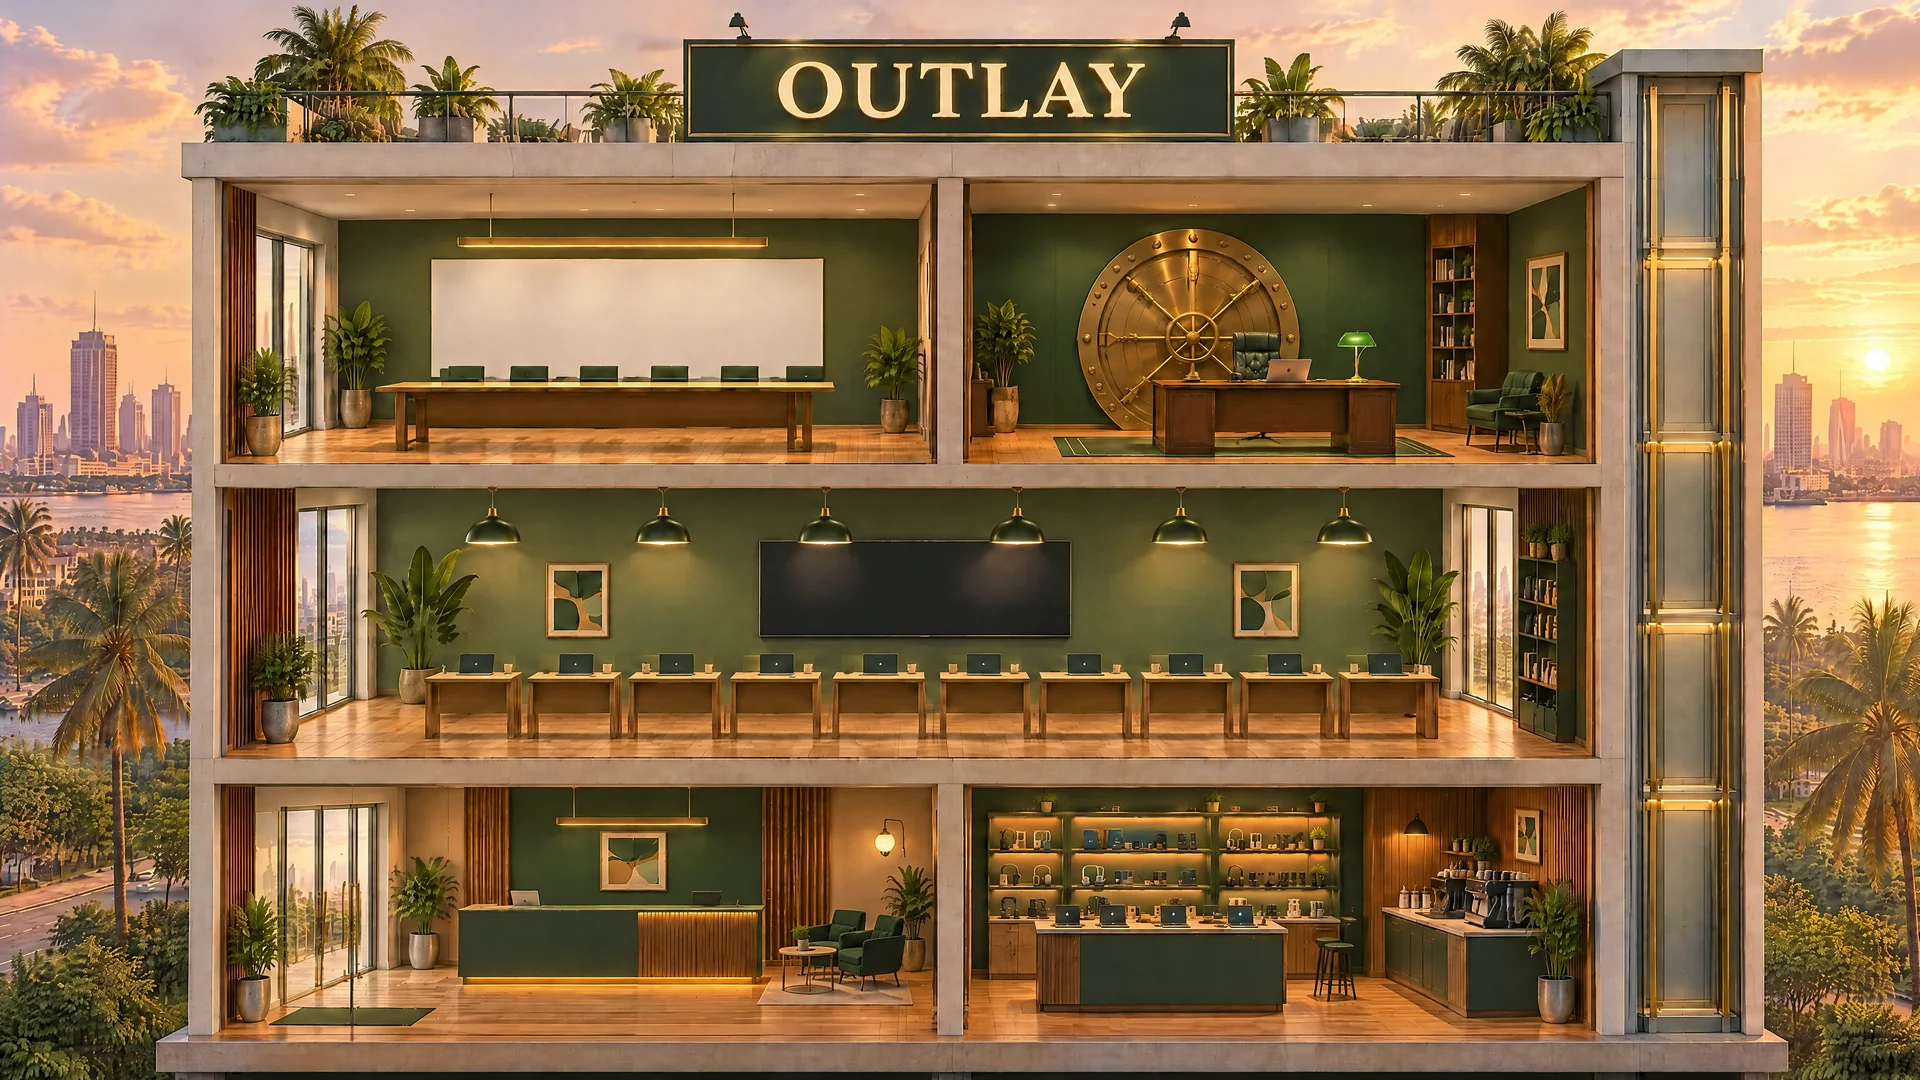
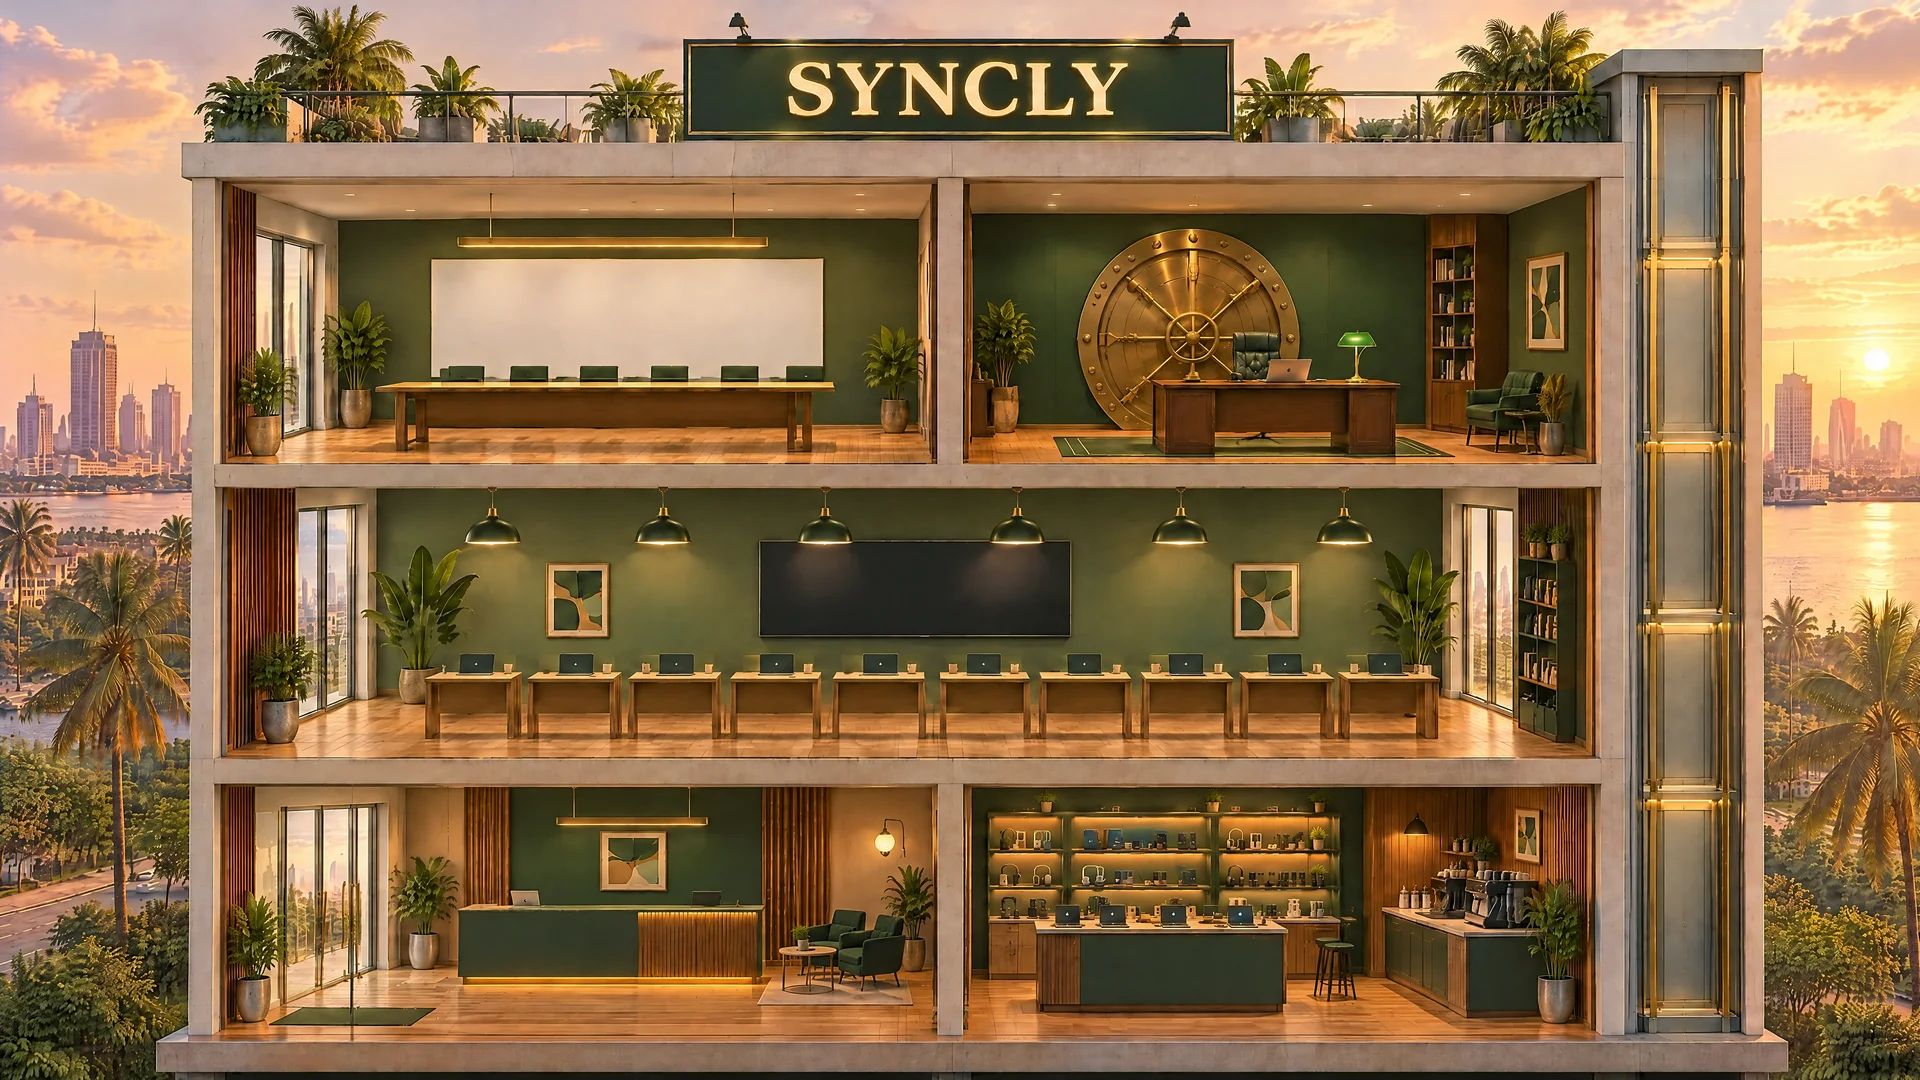
Rename the company to Syncly
- every user-facing 'Outlay' is now 'Syncly': site copy, titles, the wordmark, the
  seal (S), favicon, receipts, the office wall screen, SYNCLY HQ, README, TRACTION.md
- contracts renamed before deployment: SynclyVault (16/16 tests pass)
- the rooftop sign in the building art repainted to SYNCLY (Higgsfield edit of the sign
  crop only, blended back so every coordinate in the scene is unchanged)
- internal names (OUTLAY_* env vars, storage keys, the seed file) are unchanged

Changed region(s): [[0.3438, 0.0306, 0.6562, 0.1528]]

diff --git a/web/src/views/Job.tsx b/web/src/views/Job.tsx
@@ -42,7 +42,7 @@ function PaperReceipt({ o, receipt }: { o: Order; receipt: Receipt[] }) {
   const price = q.promo ? 0 : q.priceUsd;
   return (
     <div className="receipt">
-      <div className="rh"><b>OUTLAY</b><span>{o.id} · {new Date(o.createdAt).toLocaleDateString()}</span></div>
+      <div className="rh"><b>SYNCLY</b><span>{o.id} · {new Date(o.createdAt).toLocaleDateString()}</span></div>
       <div style={{ fontSize: 11.5, color: 'var(--muted)', textAlign: 'center' }}>Every tool the team bought for this job</div>
       <hr />
       <div className="scroll">
@@ -59,7 +59,7 @@ function PaperReceipt({ o, receipt }: { o: Order; receipt: Receipt[] }) {
       <div className="tot"><span>Tools ({receipt.length})</span><span>{spent.toFixed(4)}</span></div>
       <div className="tot"><span>You pay{q.promo ? ' (free)' : ''}</span><span>{price.toFixed(2)}</span></div>
       <hr />
-      <div className="tot big"><span>Outlay's margin</span><span>{(price - spent).toFixed(4)}</span></div>
+      <div className="tot big"><span>Syncly's margin</span><span>{(price - spent).toFixed(4)}</span></div>
       <div className="foot">USDC · {o.demo ? 'demo receipt, no money moved' : 'paid per call via x402 on Arc'}</div>
     </div>
   );
@@ -103,7 +103,7 @@ export default function Job({ id }: { id: string }) {
     } catch (e: any) { setErr(e.message); } finally { setBusy(false); }
   }
 
-  if (err && !o) return <main className="wrap section center"><h1 className="h1">Couldn't find this job.</h1><p className="muted" style={{ margin: '12px 0 24px' }}>{err}</p><Link href="/" className="btn secondary">Back to Outlay</Link></main>;
+  if (err && !o) return <main className="wrap section center"><h1 className="h1">Couldn't find this job.</h1><p className="muted" style={{ margin: '12px 0 24px' }}>{err}</p><Link href="/" className="btn secondary">Back to Syncly</Link></main>;
   if (!o) return <main className="wrap section"><div className="skel" style={{ height: 480 }} /></main>;
   const q = o.quote;
 

diff --git a/server/src/api.ts b/server/src/api.ts
@@ -1,4 +1,4 @@
-// Outlay API: quotes, orders, live job progress (SSE), the public books.
+// Syncly API: quotes, orders, live job progress (SSE), the public books.
 //   PORT=8790 node src/api.ts          (OUTLAY_DRY=1 for demo mode: no money moves, clearly labelled)
 import { Hono } from 'hono';
 import { streamSSE } from 'hono/streaming';
@@ -6,7 +6,7 @@ import { serve } from '@hono/node-server';
 import { existsSync, readFileSync } from 'node:fs';
 import { join } from 'node:path';
 import { DATA_DIR, DRY } from './config.ts';
-import { bus, type OutlayEvent } from './bus.ts';
+import { bus, type SynclyEvent } from './bus.ts';
 import { CATALOG } from './services/index.ts';
 import { autoAcceptDue, createQuote, decide, getOrder, readJob, replay, retry, start } from './orders.ts';
 import { books, beancount, team } from './books.ts';
@@ -104,7 +104,7 @@ app.get('/api/books.beancount', (c) => {
 
 // Live progress of the job currently running for each order (steps + purchases), for the job page.
 const liveJobs = new Map<string, { jobId: string; steps: unknown[]; receipt: unknown[] }>();
-bus.on('event', (e: OutlayEvent) => {
+bus.on('event', (e: SynclyEvent) => {
   if (!e.orderId || !e.jobId) return;
   let l = liveJobs.get(e.orderId);
   if (!l || l.jobId !== e.jobId) liveJobs.set(e.orderId, (l = { jobId: e.jobId, steps: [], receipt: [] }));
@@ -115,7 +115,7 @@ bus.on('event', (e: OutlayEvent) => {
 app.get('/api/events', (c) =>
   streamSSE(c, async (stream) => {
     const only = c.req.query('order');
-    const send = (e: OutlayEvent) => { if (!only || e.orderId === only) void stream.writeSSE({ data: JSON.stringify(e), event: e.type }); };
+    const send = (e: SynclyEvent) => { if (!only || e.orderId === only) void stream.writeSSE({ data: JSON.stringify(e), event: e.type }); };
     bus.on('event', send);
     const ping = setInterval(() => void stream.writeSSE({ data: '{}', event: 'ping' }), 20_000);
     await new Promise<void>((resolve) => stream.onAbort(() => resolve()));

diff --git a/server/scripts/deploy.ts b/server/scripts/deploy.ts
@@ -1,4 +1,4 @@
-// Deploy OutlayVault + JobEscrow and configure them.
+// Deploy SynclyVault + JobEscrow and configure them.
 //   node scripts/deploy.ts local          → anvil on :8545 (tests the whole sequence)
 //   node scripts/deploy.ts arc [0xBoss]   → Arc mainnet; ownership handed to the Boss's own wallet
 // Deployer = treasury key. CFO + escrow operator = the cfo role. Every agent role is hired.
@@ -18,7 +18,7 @@ const forge = join(process.env.HOME!, '.foundry/bin/forge');
 
 execFileSync(forge, ['build', '--silent'], { cwd: contractsDir, stdio: 'inherit' });
 const art = (name: string) => JSON.parse(readFileSync(join(contractsDir, 'out', `${name}.sol`, `${name}.json`), 'utf8'));
-const Vault = art('OutlayVault');
+const Vault = art('SynclyVault');
 const Escrow = art('JobEscrow');
 
 const local: Chain = { id: 31337, name: 'anvil', nativeCurrency: { name: 'ETH', symbol: 'ETH', decimals: 18 }, rpcUrls: { default: { http: ['http://127.0.0.1:8545'] } } };
@@ -58,7 +58,7 @@ async function call(label: string, address: Address, abi: any, functionName: str
 }
 
 console.log(`deploying to ${network} (chain ${chain.id}) from ${deployer.address}`);
-const vault = await deploy('OutlayVault', Vault, [usdc, gatewayWallet, deployer.address, cfo]);
+const vault = await deploy('SynclyVault', Vault, [usdc, gatewayWallet, deployer.address, cfo]);
 const escrow = await deploy('JobEscrow', Escrow, [usdc, vault, cfo, boss]);
 await call('setEscrow', vault, Vault.abi, 'setEscrow', [escrow]);
 // Starting policy for a $10–20 company: reserve ≥ 1, CFO moves ≤ 2 alone, agents ≤ 3/epoch, promo ≤ 2/epoch

diff --git a/server/src/ledger.ts b/server/src/ledger.ts
@@ -3,7 +3,7 @@
 // anyone can load it into bean-query or Fava, plus a P&L computed from the same entries.
 //
 // Accounts (USDC):
-//   Assets:Vault:{Operating,Tools,Bond,Reserve,Promo}   buckets in OutlayVault
+//   Assets:Vault:{Operating,Tools,Bond,Reserve,Promo}   buckets in SynclyVault
 //   Assets:Gateway:<Role>                              an agent's Circle Gateway balance
 //   Assets:Escrow:Held                                 customer money held by JobEscrow
 //   Liabilities:Customers:Prepaid                      what we owe customers until they accept
@@ -87,7 +87,7 @@ const esc = (s: string) => s.replace(/"/g, "'");
 export function toBeancount(entries: Entry[]): string {
   const accounts = [...new Set(entries.flatMap((e) => e.postings.map((p) => p.account)))].sort();
   const first = entries.map((e) => e.date).sort()[0] ?? new Date().toISOString().slice(0, 10);
-  const head = [`option "title" "Outlay: open books"`, `option "operating_currency" "USDC"`, `commodity USDC`, '', ...accounts.map((a) => `${first} open ${a} USDC`), ''];
+  const head = [`option "title" "Syncly: open books"`, `option "operating_currency" "USDC"`, `commodity USDC`, '', ...accounts.map((a) => `${first} open ${a} USDC`), ''];
   const body = [...entries].sort((a, b) => a.date.localeCompare(b.date)).map((e) => {
     assertBalanced(e);
     const meta = Object.entries(e.meta).filter(([, v]) => v).map(([k, v]) => `  ${k}: "${esc(String(v))}"`);

diff --git a/web/src/office/scene.ts b/web/src/office/scene.ts
@@ -1,4 +1,4 @@
-// Outlay HQ: a three-storey building in cutaway, driven only by real events (SSE from the API, or a
+// Syncly HQ: a three-storey building in cutaway, driven only by real events (SSE from the API, or a
 // labelled replay of recorded ones). Nothing is simulated: an agent types because it just took a step,
 // a coin flies because a purchase was just paid, the Messenger walks out of the door because a job was
 // just delivered. PixiJS draws; GSAP choreographs; an auto-director moves the camera to the action.
@@ -330,7 +330,7 @@ export class OfficeScene {
 
   private buildScreen() {
     const c = new PIXI.Container(); c.position.set(SCREEN.x0 + 26, SCREEN.y0 + 18);
-    const title = this.txt('OUTLAY · OPEN BOOKS', { fontFamily: this.fonts.mono, fontSize: 19, fill: 0xe2ab45, letterSpacing: 3, fontWeight: '600' }, 3);
+    const title = this.txt('SYNCLY · OPEN BOOKS', { fontFamily: this.fonts.mono, fontSize: 19, fill: 0xe2ab45, letterSpacing: 3, fontWeight: '600' }, 3);
     const clock = this.txt('', { fontFamily: this.fonts.mono, fontSize: 19, fill: 0x9fb8ae }, 3); clock.anchor.set(1, 0); clock.x = SCREEN.x1 - SCREEN.x0 - 52;
     const rev = this.txt('—', { fontFamily: this.fonts.serif, fontSize: 64, fill: 0xf4ecda }, 3); rev.y = 30;
     const sub = this.txt('', { fontFamily: this.fonts.mono, fontSize: 18, fill: 0xc9d6cf }, 3); sub.y = 108;

diff --git a/web/src/views/Books.tsx b/web/src/views/Books.tsx
@@ -90,7 +90,7 @@ export default function Books() {
       <div className="pagehead">
         <div className="eyebrow">Open books</div>
         <h1 className="h1">Every dollar this AI company <em>makes and spends.</em></h1>
-        <p className="sub">An AI CFO runs Outlay's money. These books come from the same records that move it: job receipts, escrow and the vault on Arc. Updated {timeAgo(b.asOf)}.</p>
+        <p className="sub">An AI CFO runs Syncly's money. These books come from the same records that move it: job receipts, escrow and the vault on Arc. Updated {timeAgo(b.asOf)}.</p>
         {b.mode === 'demo' && <div className="banner"><span>●</span><div><b>Demo mode.</b> These numbers come from simulated jobs: no real money moved and every receipt is marked “demo”. Live figures from Arc mainnet replace them when the treasury is funded.</div></div>}
       </div>
 
@@ -126,7 +126,7 @@ export default function Books() {
 
       <div className="row2" style={{ marginTop: 20 }}>
         <section className="card pad">
-          <h3 className="t">Where the money sits <small>OutlayVault on Arc</small></h3>
+          <h3 className="t">Where the money sits <small>SynclyVault on Arc</small></h3>
           {b.vault ? (
             <>
               <Bars rows={BUCKETS.map(([k, label, note]) => ({ label, value: b.vault!.buckets[k] ?? 0, note }))} />

diff --git a/web/src/views/Hire.tsx b/web/src/views/Hire.tsx
@@ -37,7 +37,7 @@ function QuoteDoc({ s, order }: { s: Service; order: QuotedOrder }) {
       </details>
       <div className="signed">
         <Avatar role="cfo" lg />
-        <div><motion.div className="sig" initial={{ clipPath: 'inset(0 100% 0 0)' }} animate={{ clipPath: 'inset(0 0% 0 0)' }} transition={{ delay: 0.9, duration: 0.9, ease: 'easeInOut' }}>The CFO</motion.div><div className="muted">Chief Financial Officer, Outlay · {new Date().toLocaleDateString(undefined, { day: 'numeric', month: 'short', year: 'numeric' })}</div></div>
+        <div><motion.div className="sig" initial={{ clipPath: 'inset(0 100% 0 0)' }} animate={{ clipPath: 'inset(0 0% 0 0)' }} transition={{ delay: 0.9, duration: 0.9, ease: 'easeInOut' }}>The CFO</motion.div><div className="muted">Chief Financial Officer, Syncly · {new Date().toLocaleDateString(undefined, { day: 'numeric', month: 'short', year: 'numeric' })}</div></div>
       </div>
     </motion.div>
   );

diff --git a/server/src/services/lead-list.ts b/server/src/services/lead-list.ts
@@ -136,7 +136,7 @@ export const leadList = {
         `For: ${spec.offer}\n\n` +
         `- ${fromSite} emails published on the business's own site, ${good.length - fromSite} found via Tomba.\n` +
         `- Every address passed a live deliverability check (MX, disposable, shape).\n` +
-        `- Each lead has a first line written from its real Maps data. Review before sending; Outlay never sends cold email for you.\n\n` +
+        `- Each lead has a first line written from its real Maps data. Review before sending; Syncly never sends cold email for you.\n\n` +
         `| Business | Email | Opener |\n|---|---|---|\n` + good.slice(0, 10).map((l) => `| ${l.title} | ${l.email} | ${l.opener ?? ''} |`).join('\n') +
         `\n\nFull list in \`leads.csv\`.` + (issues.length ? `\n\n> Notes: ${issues.join('; ')}` : '');
       job.status = hardFail ? 'failed' : 'delivered';

diff --git a/web/src/lib.tsx b/web/src/lib.tsx
@@ -53,7 +53,7 @@ export function Seal({ size = 32 }: { size?: number }) {
       <defs><radialGradient id="lead" cx="40%" cy="35%"><stop offset="0" stopColor="#a4a9b0" /><stop offset="1" stopColor="#5d626a" /></radialGradient></defs>
       <circle cx="32" cy="32" r="30" fill="url(#lead)" stroke="#43474e" strokeWidth="2" />
       <circle cx="32" cy="32" r="23" fill="none" stroke="#d6dae0" strokeOpacity=".6" strokeWidth="1.5" strokeDasharray="2 3" />
-      <text x="32" y="41.5" textAnchor="middle" fontFamily="Cinzel, serif" fontWeight="700" fontSize="27" fill="#f4f1ea">O</text>
+      <text x="32" y="41.5" textAnchor="middle" fontFamily="Cinzel, serif" fontWeight="700" fontSize="27" fill="#f4f1ea">S</text>
     </svg>
   );
 }

diff --git a/server/src/bus.ts b/server/src/bus.ts
@@ -2,7 +2,7 @@
 // here; the API streams it to browsers over SSE (the job page, the office, /books).
 import { EventEmitter } from 'node:events';
 
-export type OutlayEvent = {
+export type SynclyEvent = {
   type: 'step' | 'purchase' | 'order';
   orderId?: string;
   jobId?: string;
@@ -13,6 +13,6 @@ export type OutlayEvent = {
 export const bus = new EventEmitter();
 bus.setMaxListeners(200);
 
-export function publish(e: Omit<OutlayEvent, 'at'>) {
-  bus.emit('event', { ...e, at: new Date().toISOString() } satisfies OutlayEvent);
+export function publish(e: Omit<SynclyEvent, 'at'>) {
+  bus.emit('event', { ...e, at: new Date().toISOString() } satisfies SynclyEvent);
 }

diff --git a/web/src/views/Home.tsx b/web/src/views/Home.tsx
@@ -278,7 +278,7 @@ export default function Home() {
           <Reveal>
             <div className="eyebrow">Open books</div>
             <h2 className="h2">The first AI company <em>with open books.</em></h2>
-            <p className="lede">An AI CFO runs Outlay's money. Its books are public and generated from the same records that move the money.</p>
+            <p className="lede">An AI CFO runs Syncly's money. Its books are public and generated from the same records that move the money.</p>
             <ul className="ticks">
               <li>Every tool purchase, with the agent and the reason</li>
               <li>Revenue only from work customers accepted</li>

diff --git a/web/src/views/Live.tsx b/web/src/views/Live.tsx
@@ -28,7 +28,7 @@ export default function Live() {
       <Office fill idleReplayMs={6000} soundOnFirstClick onMode={setMode} onSound={setSound} />
       <div className={`live-hud${idle ? ' hidden' : ''}`}>
         <div className="live-brand">
-          <Seal size={28} /><span className="wordmark">OUTLAY HQ</span>
+          <Seal size={28} /><span className="wordmark">SYNCLY HQ</span>
           {mode.mode === 'live' ? <span className="chip live"><span className="dot" />Live</span>
             : mode.mode === 'replay' ? <span className="chip dark">↺ Replay · real events</span>
             : <span className="chip dark">Quiet</span>}
